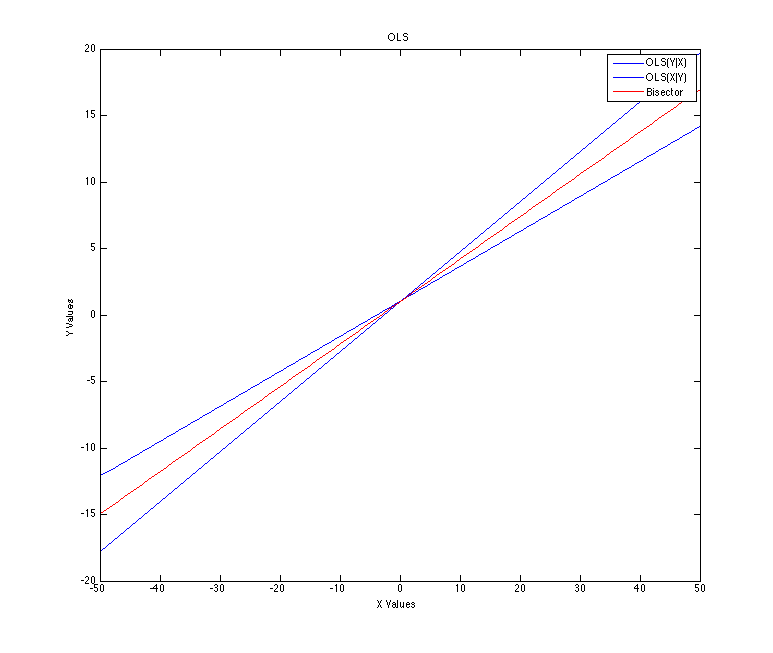
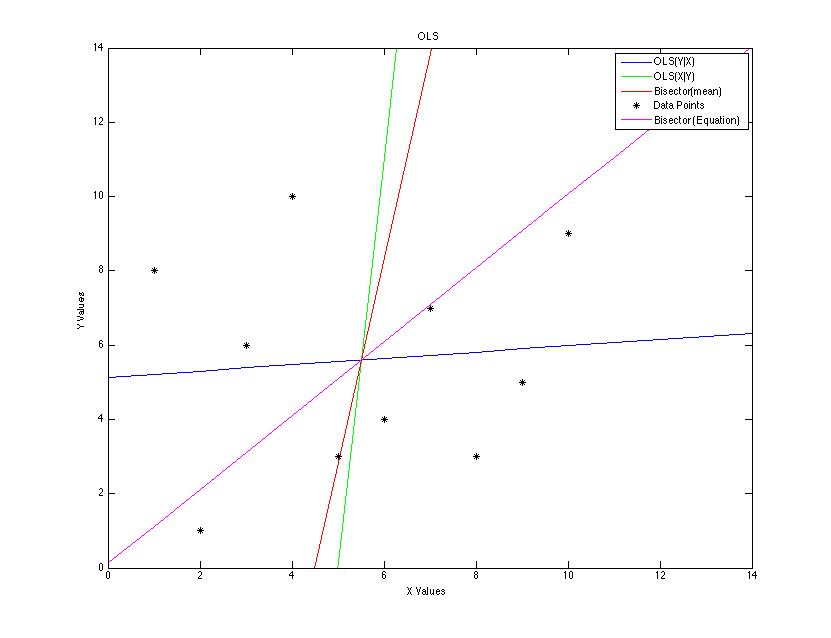
HW5

diff --git a/HW5_4.m b/HW5_4.m
@@ -1,7 +1,9 @@
 clear;
 
-x=abs(randn(10,1));
-y=abs(randn(10,1));
+%x=abs(randn(10,1));
+%y=abs(randn(10,1));
+x=[1 2 3 4 5 6 7 8 9 10];
+y=[8 1 6 10 3 4 7 3 5 9];
 
 for i=1:10
 b_t(i) = x(i)*y(i);
@@ -10,29 +12,38 @@ b_by(i) = y(i)^2;
 end
 
 bx = (sum(b_t)-length(x)*mean(x)*mean(y))/(sum(b_bx)-length(x)*mean(x)^2);
-by = (sum(b_t)-length(x)*mean(x)*mean(y))/(sum(b_by)-length(x)*mean(y)^2);
+by = (sum(b_by)-length(x)*mean(y)^2)/(sum(b_t)-length(x)*mean(x)*mean(y));
 ax = mean(y) - bx*mean(x);
 ay = mean(y) - by*mean(x);
 
 a = (ax+ay)/2;
 b = (bx+by)/2;
 
-g=[-50:50];
+b_bi = (1/(bx+by))*(bx*by-1+sqrt((1+bx^2)*(1+by^2)));
+a_bi = mean(y) - b_bi*mean(x);
+
+g=[0:50];
 h = (bx*g)+ax;
 k = (by*g)+ay;
 m = (b*g)+a;
+v = (b_bi*g)+a_bi;
 
+clf;
 figure(1);
 plot(g,h,'blue');
 hold on
-plot(g,k,'blue');
+plot(g,k,'green');
 plot(g,m,'red');
+plot(x,y,'black*')
+plot(g,v,'magenta')
 title('OLS');
 xlabel('X Values');
 ylabel('Y Values');
-legend('OLS(Y|X)','OLS(X|Y)','Bisector');
+axis([0,14,0,14])
+legend('OLS(Y|X)','OLS(X|Y)','Bisector(mean)','Data Points','Bisector (Equation)');
 hold off
 
 polyfit(x,y,1); %check
 
-fprintf('a = %.3f and b = %.3f \n',a,b)
+fprintf('a = %.3f and b = %.3f (Y|X)\n',ax,bx)
+fprintf('a = %.3f and b = %.3f (X|Y)\n',ay,by)

diff --git a/HW5_LightCurve.m b/HW5_LightCurve.m
@@ -1,0 +1,12 @@
+clear;
+clf;
+load 'HD189733b.txt';
+t = HD189733b(:,1);
+f = HD189733b(:,2);
+
+figure(1)
+plot(t,f,'*');
+title('Transit of HD189733b')
+xtitle('Julian Date')
+ytitle('Relative Flux')
+
